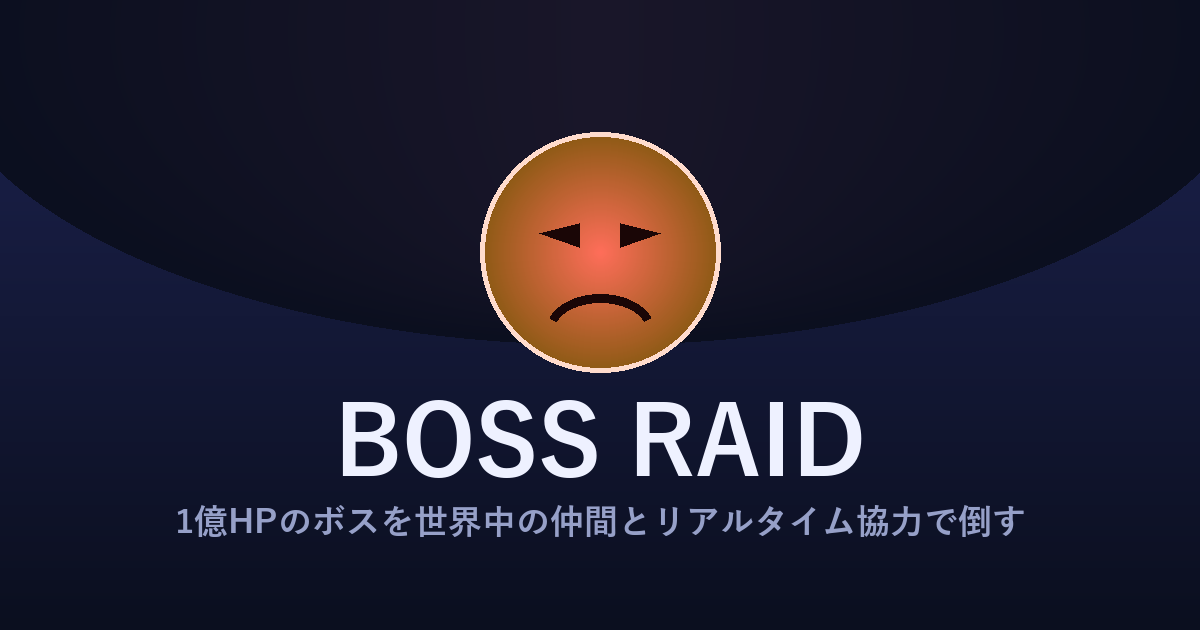
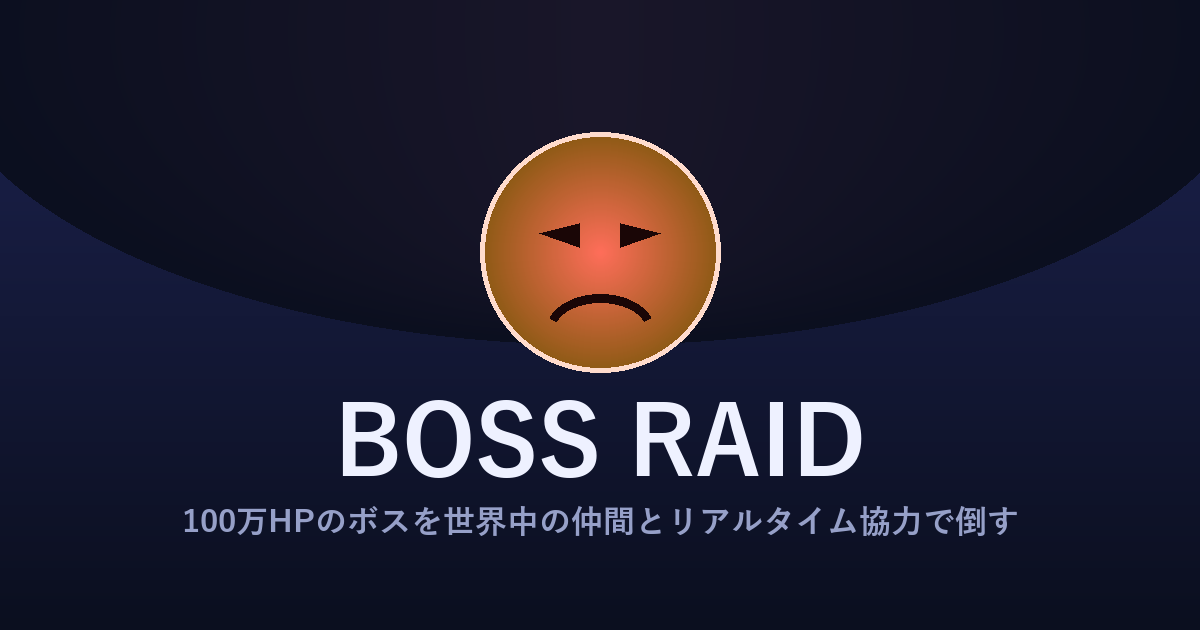
v1.8.0 ボスの基準HPを1億→100万に変更
- js/config.js: BASE_HP 100,000,000 -> 1,000,000(以降のボスも同倍率で成長)
- Supabaseの boss_raid_hit 関数を新基準値に更新、進行中のボスは削れていた
  割合を保ったまま新スケールへ変換(マイグレーション実行済み、リセットなし)
- schema.sql・全16言語(i18n.js + js/lang/*.js)・index.html(タイトル/説明文/
  OGP/Twitterカード/JSON-LD/noscript)・README・manifest・og.png の表記を
  1億→100万に統一

Changed region(s): [[0.1542, 0.7841, 0.8633, 0.8746]]

diff --git a/index.html b/index.html
@@ -3,8 +3,8 @@
 <head>
 <meta charset="UTF-8">
 <meta name="viewport" content="width=device-width, initial-scale=1.0, maximum-scale=1.0, user-scalable=no">
-<title>BOSS RAID｜1億HPのボスをみんなでリアルタイム協力で倒す無料ゲーム</title>
-<meta name="description" content="BOSS RAIDは、1億HPのボスを世界中のプレイヤーとリアルタイム協力でクリック連打して倒すブラウザゲーム。倒すたびに少し強い次のボスが無限に出現。登録不要・完全無料・匿名で今すぐ遊べる。実績・称号・スキン24種・ペット育成つき。">
+<title>BOSS RAID｜100万HPのボスをみんなでリアルタイム協力で倒す無料ゲーム</title>
+<meta name="description" content="BOSS RAIDは、100万HPのボスを世界中のプレイヤーとリアルタイム協力でクリック連打して倒すブラウザゲーム。倒すたびに少し強い次のボスが無限に出現。登録不要・完全無料・匿名で今すぐ遊べる。実績・称号・スキン24種・ペット育成つき。">
 <meta name="keywords" content="BOSS RAID,ボスレイド,クリッカー,協力ゲーム,リアルタイム,ブラウザゲーム,無料ゲーム,idle,co-op,boss,clicker">
 <meta name="author" content="kaikomziu">
 <meta name="robots" content="index, follow, max-image-preview:large">
@@ -30,16 +30,16 @@
 
 <meta property="og:type" content="website">
 <meta property="og:site_name" content="BOSS RAID">
-<meta property="og:title" content="BOSS RAID｜1億HPのボスをみんなでリアルタイム協力で倒す">
-<meta property="og:description" content="世界中のプレイヤーと1億HPのボスをクリック連打で協力討伐。倒すたび強くなる次のボスが無限に出現。登録不要・完全無料・匿名。">
+<meta property="og:title" content="BOSS RAID｜100万HPのボスをみんなでリアルタイム協力で倒す">
+<meta property="og:description" content="世界中のプレイヤーと100万HPのボスをクリック連打で協力討伐。倒すたび強くなる次のボスが無限に出現。登録不要・完全無料・匿名。">
 <meta property="og:url" content="https://kaikomziu.github.io/boss-raid/">
 <meta property="og:image" content="https://kaikomziu.github.io/boss-raid/og.png">
 <meta property="og:image:width" content="1200">
 <meta property="og:image:height" content="630">
 <meta property="og:locale" content="ja_JP">
 <meta name="twitter:card" content="summary_large_image">
-<meta name="twitter:title" content="BOSS RAID｜1億HPのボスをみんなでリアルタイム協力で倒す">
-<meta name="twitter:description" content="世界中のプレイヤーと1億HPのボスをクリック連打で協力討伐。倒すたび強くなる次のボスが無限に出現。登録不要・完全無料・匿名。">
+<meta name="twitter:title" content="BOSS RAID｜100万HPのボスをみんなでリアルタイム協力で倒す">
+<meta name="twitter:description" content="世界中のプレイヤーと100万HPのボスをクリック連打で協力討伐。倒すたび強くなる次のボスが無限に出現。登録不要・完全無料・匿名。">
 <meta name="twitter:image" content="https://kaikomziu.github.io/boss-raid/og.png">
 
 <link rel="manifest" href="manifest.webmanifest">
@@ -54,7 +54,7 @@
   "name": "BOSS RAID",
   "url": "https://kaikomziu.github.io/boss-raid/",
   "image": "https://kaikomziu.github.io/boss-raid/og.png",
-  "description": "1億HPのボスを世界中のプレイヤーとリアルタイム協力でクリック連打して倒すブラウザゲーム。倒すたびに少し強い次のボスが無限に出現する。",
+  "description": "100万HPのボスを世界中のプレイヤーとリアルタイム協力でクリック連打して倒すブラウザゲーム。倒すたびに少し強い次のボスが無限に出現する。",
   "inLanguage": "ja",
   "author": { "@type": "Person", "name": "kaikomziu" },
   "genre": ["Clicker", "Cooperative", "Idle"],
@@ -70,7 +70,7 @@
 <noscript>
   <div style="max-width:640px;margin:40px auto;padding:0 20px;color:#eef1ff;font-family:sans-serif;line-height:1.8">
     <h1>BOSS RAID</h1>
-    <p>BOSS RAID は、1億HPのボスを世界中のプレイヤーとリアルタイム協力でクリック連打して倒すブラウザゲームです。
+    <p>BOSS RAID は、100万HPのボスを世界中のプレイヤーとリアルタイム協力でクリック連打して倒すブラウザゲームです。
     倒すたびに少し強い次のボスが無限に出現します。登録不要・完全無料・匿名で今すぐ遊べます。</p>
     <p>実績22種、称号9段階、討伐図鑑、24種の画面スキン、10種のペット育成、PC向けキーバインド、PWA(ホーム画面に追加)対応。
     このゲームを遊ぶには JavaScript を有効にしてください。</p>
@@ -111,7 +111,7 @@
       <div id="bossIntro"></div>
 
       <div id="hpWrap">
-        <div class="hp-readout"><span id="hpText">100,000,000</span></div>
+        <div class="hp-readout"><span id="hpText">1,000,000</span></div>
         <div id="hpApprox"></div>
         <div id="hpBar"><div id="hpFill"></div><span id="hpPct">100.0%</span></div>
       </div>

diff --git a/js/lang/ru.js b/js/lang/ru.js
@@ -67,7 +67,7 @@ export default {
   'petacc.none': 'Нет', 'petacc.ribbon': 'Бантик', 'petacc.cap': 'Кепка', 'petacc.glass': 'Очки', 'petacc.crown': 'Корона',
   'petacc.lock': 'Откроется на «{stage}»',
 
-  'help.body': 'Все игроки онлайн вместе, в реальном времени, заклацывают одного босса со 100 000 000 HP. После победы появляется чуть более сильный следующий — бесконечно.<br>Кликайте/тапайте где угодно. Бейте светящиеся <b>уязвимые точки</b> для 2× урона. С клавиатуры просто атакуйте, пока точка видна, для авто-крита.',
+  'help.body': 'Все игроки онлайн вместе, в реальном времени, заклацывают одного босса со 1 000 000 HP. После победы появляется чуть более сильный следующий — бесконечно.<br>Кликайте/тапайте где угодно. Бейте светящиеся <b>уязвимые точки</b> для 2× урона. С клавиатуры просто атакуйте, пока точка видна, для авто-крита.',
 
   'bl.intro.0': 'Значит, ты пришёл…', 'bl.intro.1': 'Смеешь бросить мне вызов?', 'bl.intro.2': 'Отправлю тебя назад по кусочкам', 'bl.intro.3': 'Никто не пройдёт',
   'bl.idle.0': 'Мало!', 'bl.idle.1': 'Это не сработает', 'bl.idle.2': 'И это всё?', 'bl.idle.3': 'Иди сюда', 'bl.idle.4': 'Жалко', 'bl.idle.5': 'Получай!',

diff --git a/js/lang/ar.js b/js/lang/ar.js
@@ -67,7 +67,7 @@ export default {
   'petacc.none': 'بلا', 'petacc.ribbon': 'شريطة', 'petacc.cap': 'قبعة', 'petacc.glass': 'نظارة', 'petacc.crown': 'تاج',
   'petacc.lock': 'يُفتح عند {stage}',
 
-  'help.body': 'كل اللاعبين المتصلين معًا، بشكل فوري، ينقرون على زعيم واحد بصحة 100,000,000. بعد هزيمته يظهر زعيم تالٍ أقوى قليلًا — بلا نهاية.<br>انقر/المس في أي مكان. اضرب <b>نقاط الضعف</b> المتوهجة لضعف الضرر. على لوحة المفاتيح، اهجم فقط أثناء ظهور نقطة الضعف لضربة حاسمة تلقائية.',
+  'help.body': 'كل اللاعبين المتصلين معًا، بشكل فوري، ينقرون على زعيم واحد بصحة 1,000,000. بعد هزيمته يظهر زعيم تالٍ أقوى قليلًا — بلا نهاية.<br>انقر/المس في أي مكان. اضرب <b>نقاط الضعف</b> المتوهجة لضعف الضرر. على لوحة المفاتيح، اهجم فقط أثناء ظهور نقطة الضعف لضربة حاسمة تلقائية.',
 
   'bl.intro.0': 'إذًا قد أتيت…', 'bl.intro.1': 'أتجرؤ على تحدّيي؟', 'bl.intro.2': 'سأعيدك أشلاءً', 'bl.intro.3': 'لن يمرّ أحد',
   'bl.idle.0': 'ليس كافيًا!', 'bl.idle.1': 'هذا لا ينفع', 'bl.idle.2': 'أهذا كل شيء؟', 'bl.idle.3': 'تعال إليّ', 'bl.idle.4': 'مثير للشفقة', 'bl.idle.5': 'خذ هذه!',

diff --git a/js/lang/vi.js b/js/lang/vi.js
@@ -67,7 +67,7 @@ export default {
   'petacc.none': 'Không', 'petacc.ribbon': 'Nơ', 'petacc.cap': 'Mũ', 'petacc.glass': 'Kính', 'petacc.crown': 'Vương miện',
   'petacc.lock': 'Mở khóa ở {stage}',
 
-  'help.body': 'Tất cả người chơi trực tuyến cùng nhau, theo thời gian thực, nhấp hạ một con boss duy nhất 100.000.000 HP. Hạ xong sẽ xuất hiện con boss tiếp theo mạnh hơn một chút — vô tận.<br>Nhấp/chạm bất kỳ đâu. Đánh trúng <b>điểm yếu</b> phát sáng để gây 2× sát thương. Với bàn phím, chỉ cần tấn công khi điểm yếu đang hiện để tự động chí mạng.',
+  'help.body': 'Tất cả người chơi trực tuyến cùng nhau, theo thời gian thực, nhấp hạ một con boss duy nhất 1.000.000 HP. Hạ xong sẽ xuất hiện con boss tiếp theo mạnh hơn một chút — vô tận.<br>Nhấp/chạm bất kỳ đâu. Đánh trúng <b>điểm yếu</b> phát sáng để gây 2× sát thương. Với bàn phím, chỉ cần tấn công khi điểm yếu đang hiện để tự động chí mạng.',
 
   'bl.intro.0': 'Vậy là ngươi đã đến…', 'bl.intro.1': 'Ngươi dám thách thức ta?', 'bl.intro.2': 'Ta sẽ trả ngươi về từng mảnh', 'bl.intro.3': 'Không ai được qua',
   'bl.idle.0': 'Chưa đủ!', 'bl.idle.1': 'Vô ích thôi', 'bl.idle.2': 'Chỉ vậy thôi à?', 'bl.idle.3': 'Lại đây', 'bl.idle.4': 'Thảm hại', 'bl.idle.5': 'Nhận lấy!',

diff --git a/js/lang/de.js b/js/lang/de.js
@@ -67,7 +67,7 @@ export default {
   'petacc.none': 'Keins', 'petacc.ribbon': 'Schleife', 'petacc.cap': 'Mütze', 'petacc.glass': 'Sonnenbrille', 'petacc.crown': 'Krone',
   'petacc.lock': 'Freischaltung bei {stage}',
 
-  'help.body': 'Alle Online-Spieler klopfen gemeinsam in Echtzeit einen einzigen Boss mit 100.000.000 HP herunter. Nach dem Sieg erscheint ein etwas stärkerer nächster Boss – endlos.<br>Klicke/tippe irgendwo. Triff die leuchtenden <b>Schwachstellen</b> für 2× Schaden. Mit Tastatur einfach angreifen, während eine sichtbar ist, für einen Auto-Crit.',
+  'help.body': 'Alle Online-Spieler klopfen gemeinsam in Echtzeit einen einzigen Boss mit 1.000.000 HP herunter. Nach dem Sieg erscheint ein etwas stärkerer nächster Boss – endlos.<br>Klicke/tippe irgendwo. Triff die leuchtenden <b>Schwachstellen</b> für 2× Schaden. Mit Tastatur einfach angreifen, während eine sichtbar ist, für einen Auto-Crit.',
 
   'bl.intro.0': 'Da bist du also…', 'bl.intro.1': 'Du wagst es, mich herauszufordern?', 'bl.intro.2': 'Ich schicke dich in Stücken zurück', 'bl.intro.3': 'Niemand kommt hier vorbei',
   'bl.idle.0': 'Nicht genug!', 'bl.idle.1': 'Das wirkt nicht', 'bl.idle.2': 'Ist das alles?', 'bl.idle.3': 'Komm her', 'bl.idle.4': 'Erbärmlich', 'bl.idle.5': 'Nimm das!',

diff --git a/js/lang/fr.js b/js/lang/fr.js
@@ -67,7 +67,7 @@ export default {
   'petacc.none': 'Aucun', 'petacc.ribbon': 'Ruban', 'petacc.cap': 'Casquette', 'petacc.glass': 'Lunettes', 'petacc.crown': 'Couronne',
   'petacc.lock': 'Débloqué à {stage}',
 
-  'help.body': "Tous les joueurs connectés frappent ensemble, en temps réel, un seul boss de 100 000 000 de PV. Une fois vaincu, un boss un peu plus fort apparaît — sans fin.<br>Cliquez/touchez n'importe où. Frappez les <b>points faibles</b> lumineux pour 2× de dégâts. Au clavier, attaquez pendant qu'un point faible est visible pour un crit automatique.",
+  'help.body': "Tous les joueurs connectés frappent ensemble, en temps réel, un seul boss de 1 000 000 de PV. Une fois vaincu, un boss un peu plus fort apparaît — sans fin.<br>Cliquez/touchez n'importe où. Frappez les <b>points faibles</b> lumineux pour 2× de dégâts. Au clavier, attaquez pendant qu'un point faible est visible pour un crit automatique.",
 
   'bl.intro.0': 'Te voilà donc…', 'bl.intro.1': 'Tu oses me défier ?', 'bl.intro.2': 'Je te renverrai en morceaux', 'bl.intro.3': 'Nul ne passera',
   'bl.idle.0': 'Pas assez !', 'bl.idle.1': 'Ça ne marche pas', 'bl.idle.2': "C'est tout ?", 'bl.idle.3': 'Viens donc', 'bl.idle.4': 'Pathétique', 'bl.idle.5': 'Prends ça !',

diff --git a/js/lang/ko.js b/js/lang/ko.js
@@ -67,7 +67,7 @@ export default {
   'petacc.none': '없음', 'petacc.ribbon': '리본', 'petacc.cap': '모자', 'petacc.glass': '선글라스', 'petacc.crown': '왕관',
   'petacc.lock': '{stage}에서 해금',
 
-  'help.body': '전 세계 접속 중인 모두가 하나의 1억 HP 보스를 실시간으로 함께 클릭해 잡습니다. 잡으면 조금 더 강한 다음 보스가 무한히 등장합니다.<br>아무 곳이나 클릭/탭. 빛나는 <b>약점</b>을 때리면 데미지 2배. 키보드는 약점이 떠 있는 동안 공격하면 자동 치명타.',
+  'help.body': '전 세계 접속 중인 모두가 하나의 100만 HP 보스를 실시간으로 함께 클릭해 잡습니다. 잡으면 조금 더 강한 다음 보스가 무한히 등장합니다.<br>아무 곳이나 클릭/탭. 빛나는 <b>약점</b>을 때리면 데미지 2배. 키보드는 약점이 떠 있는 동안 공격하면 자동 치명타.',
 
   'bl.intro.0': '잘도 왔군…', 'bl.intro.1': '호오, 도전할 셈인가', 'bl.intro.2': '되받아쳐 주마', 'bl.intro.3': '이 땅은 못 지나간다',
   'bl.idle.0': '아직 멀었다!', 'bl.idle.1': '안 통해', 'bl.idle.2': '그 정도냐?', 'bl.idle.3': '더 와라', 'bl.idle.4': '시시하군', 'bl.idle.5': '받아라!',

diff --git a/js/lang/tr.js b/js/lang/tr.js
@@ -67,7 +67,7 @@ export default {
   'petacc.none': 'Yok', 'petacc.ribbon': 'Kurdele', 'petacc.cap': 'Şapka', 'petacc.glass': 'Gözlük', 'petacc.crown': 'Taç',
   'petacc.lock': '{stage} seviyesinde açılır',
 
-  'help.body': "Çevrimiçi tüm oyuncular gerçek zamanlı olarak birlikte 100.000.000 CP'lik tek bir patrona tıklar. Yenildiğinde biraz daha güçlü bir sonraki patron çıkar — sonsuza dek.<br>Herhangi bir yere tıkla/dokun. Parlayan <b>zayıf noktalara</b> vur, 2× hasar. Klavyede, bir zayıf nokta görünürken saldır, otomatik kritik.",
+  'help.body': "Çevrimiçi tüm oyuncular gerçek zamanlı olarak birlikte 1.000.000 CP'lik tek bir patrona tıklar. Yenildiğinde biraz daha güçlü bir sonraki patron çıkar — sonsuza dek.<br>Herhangi bir yere tıkla/dokun. Parlayan <b>zayıf noktalara</b> vur, 2× hasar. Klavyede, bir zayıf nokta görünürken saldır, otomatik kritik.",
 
   'bl.intro.0': 'Demek geldin…', 'bl.intro.1': 'Bana meydan okumaya mı cüret ediyorsun?', 'bl.intro.2': 'Seni parçalar halinde geri gönderirim', 'bl.intro.3': 'Kimse geçemez',
   'bl.idle.0': 'Yetmez!', 'bl.idle.1': 'İşe yaramaz', 'bl.idle.2': 'Bu kadar mı?', 'bl.idle.3': 'Gel bakalım', 'bl.idle.4': 'Zavallı', 'bl.idle.5': 'Al bakalım!',

diff --git a/js/lang/es.js b/js/lang/es.js
@@ -67,7 +67,7 @@ export default {
   'petacc.none': 'Ninguno', 'petacc.ribbon': 'Lazo', 'petacc.cap': 'Gorra', 'petacc.glass': 'Gafas', 'petacc.crown': 'Corona',
   'petacc.lock': 'Se desbloquea en {stage}',
 
-  'help.body': 'Todos los jugadores conectados golpean juntos y en tiempo real a un único jefe de 100.000.000 de HP. Al vencerlo aparece otro un poco más fuerte, sin fin.<br>Haz clic/toca en cualquier sitio. Golpea los <b>puntos débiles</b> brillantes para 2× de daño. Con teclado, ataca mientras uno esté visible para un crítico automático.',
+  'help.body': 'Todos los jugadores conectados golpean juntos y en tiempo real a un único jefe de 1.000.000 de HP. Al vencerlo aparece otro un poco más fuerte, sin fin.<br>Haz clic/toca en cualquier sitio. Golpea los <b>puntos débiles</b> brillantes para 2× de daño. Con teclado, ataca mientras uno esté visible para un crítico automático.',
 
   'bl.intro.0': 'Así que has venido…', 'bl.intro.1': '¿Te atreves a desafiarme?', 'bl.intro.2': 'Te devolveré hecho pedazos', 'bl.intro.3': 'Nadie pasará',
   'bl.idle.0': '¡No basta!', 'bl.idle.1': 'Eso no funciona', 'bl.idle.2': '¿Eso es todo?', 'bl.idle.3': 'Ven a por mí', 'bl.idle.4': 'Patético', 'bl.idle.5': '¡Toma esto!',

diff --git a/js/lang/pl.js b/js/lang/pl.js
@@ -67,7 +67,7 @@ export default {
   'petacc.none': 'Brak', 'petacc.ribbon': 'Kokarda', 'petacc.cap': 'Czapka', 'petacc.glass': 'Okulary', 'petacc.crown': 'Korona',
   'petacc.lock': 'Odblokowuje się na „{stage}”',
 
-  'help.body': 'Wszyscy gracze online razem, w czasie rzeczywistym, zaklikują jednego bossa ze 100 000 000 HP. Po pokonaniu pojawia się nieco silniejszy kolejny — bez końca.<br>Kliknij/dotknij gdziekolwiek. Trafiaj świecące <b>słabe punkty</b> dla 2× obrażeń. Na klawiaturze po prostu atakuj, gdy jeden jest widoczny, aby uzyskać auto-kryt.',
+  'help.body': 'Wszyscy gracze online razem, w czasie rzeczywistym, zaklikują jednego bossa ze 1 000 000 HP. Po pokonaniu pojawia się nieco silniejszy kolejny — bez końca.<br>Kliknij/dotknij gdziekolwiek. Trafiaj świecące <b>słabe punkty</b> dla 2× obrażeń. Na klawiaturze po prostu atakuj, gdy jeden jest widoczny, aby uzyskać auto-kryt.',
 
   'bl.intro.0': 'Więc przybyłeś…', 'bl.intro.1': 'Śmiesz mnie wyzywać?', 'bl.intro.2': 'Odeślę cię w kawałkach', 'bl.intro.3': 'Nikt nie przejdzie',
   'bl.idle.0': 'Za mało!', 'bl.idle.1': 'To nie działa', 'bl.idle.2': 'To wszystko?', 'bl.idle.3': 'Chodź no', 'bl.idle.4': 'Żałosne', 'bl.idle.5': 'Masz!',

diff --git a/js/lang/pt.js b/js/lang/pt.js
@@ -67,7 +67,7 @@ export default {
   'petacc.none': 'Nenhum', 'petacc.ribbon': 'Laço', 'petacc.cap': 'Boné', 'petacc.glass': 'Óculos', 'petacc.crown': 'Coroa',
   'petacc.lock': 'Desbloqueia em {stage}',
 
-  'help.body': 'Todos os jogadores online batem juntos, em tempo real, em um único chefe de 100.000.000 de HP. Ao vencê-lo aparece outro um pouco mais forte, para sempre.<br>Clique/toque em qualquer lugar. Acerte os <b>pontos fracos</b> brilhantes para 2× de dano. No teclado, ataque enquanto um estiver visível para um crítico automático.',
+  'help.body': 'Todos os jogadores online batem juntos, em tempo real, em um único chefe de 1.000.000 de HP. Ao vencê-lo aparece outro um pouco mais forte, para sempre.<br>Clique/toque em qualquer lugar. Acerte os <b>pontos fracos</b> brilhantes para 2× de dano. No teclado, ataque enquanto um estiver visível para um crítico automático.',
 
   'bl.intro.0': 'Então você veio…', 'bl.intro.1': 'Ousa me desafiar?', 'bl.intro.2': 'Vou te mandar de volta em pedaços', 'bl.intro.3': 'Ninguém passa',
   'bl.idle.0': 'Não é o bastante!', 'bl.idle.1': 'Isso não funciona', 'bl.idle.2': 'Só isso?', 'bl.idle.3': 'Venha até mim', 'bl.idle.4': 'Patético', 'bl.idle.5': 'Toma isto!',

diff --git a/js/lang/id.js b/js/lang/id.js
@@ -67,7 +67,7 @@ export default {
   'petacc.none': 'Tidak ada', 'petacc.ribbon': 'Pita', 'petacc.cap': 'Topi', 'petacc.glass': 'Kacamata', 'petacc.crown': 'Mahkota',
   'petacc.lock': 'Terbuka di {stage}',
 
-  'help.body': 'Semua pemain online bersama-sama, secara real-time, mengeklik satu bos ber-HP 100.000.000. Setelah tumbang, muncul bos berikutnya yang sedikit lebih kuat — tanpa henti.<br>Klik/ketuk di mana saja. Kenai <b>titik lemah</b> yang bercahaya untuk 2× damage. Di keyboard, cukup serang saat titik lemah muncul untuk crit otomatis.',
+  'help.body': 'Semua pemain online bersama-sama, secara real-time, mengeklik satu bos ber-HP 1.000.000. Setelah tumbang, muncul bos berikutnya yang sedikit lebih kuat — tanpa henti.<br>Klik/ketuk di mana saja. Kenai <b>titik lemah</b> yang bercahaya untuk 2× damage. Di keyboard, cukup serang saat titik lemah muncul untuk crit otomatis.',
 
   'bl.intro.0': 'Jadi kau datang…', 'bl.intro.1': 'Berani menantangku?', 'bl.intro.2': 'Kukirim kau kembali berkeping-keping', 'bl.intro.3': 'Tak ada yang boleh lewat',
   'bl.idle.0': 'Belum cukup!', 'bl.idle.1': 'Itu tak mempan', 'bl.idle.2': 'Cuma begitu?', 'bl.idle.3': 'Ayo maju', 'bl.idle.4': 'Menyedihkan', 'bl.idle.5': 'Rasakan ini!',
